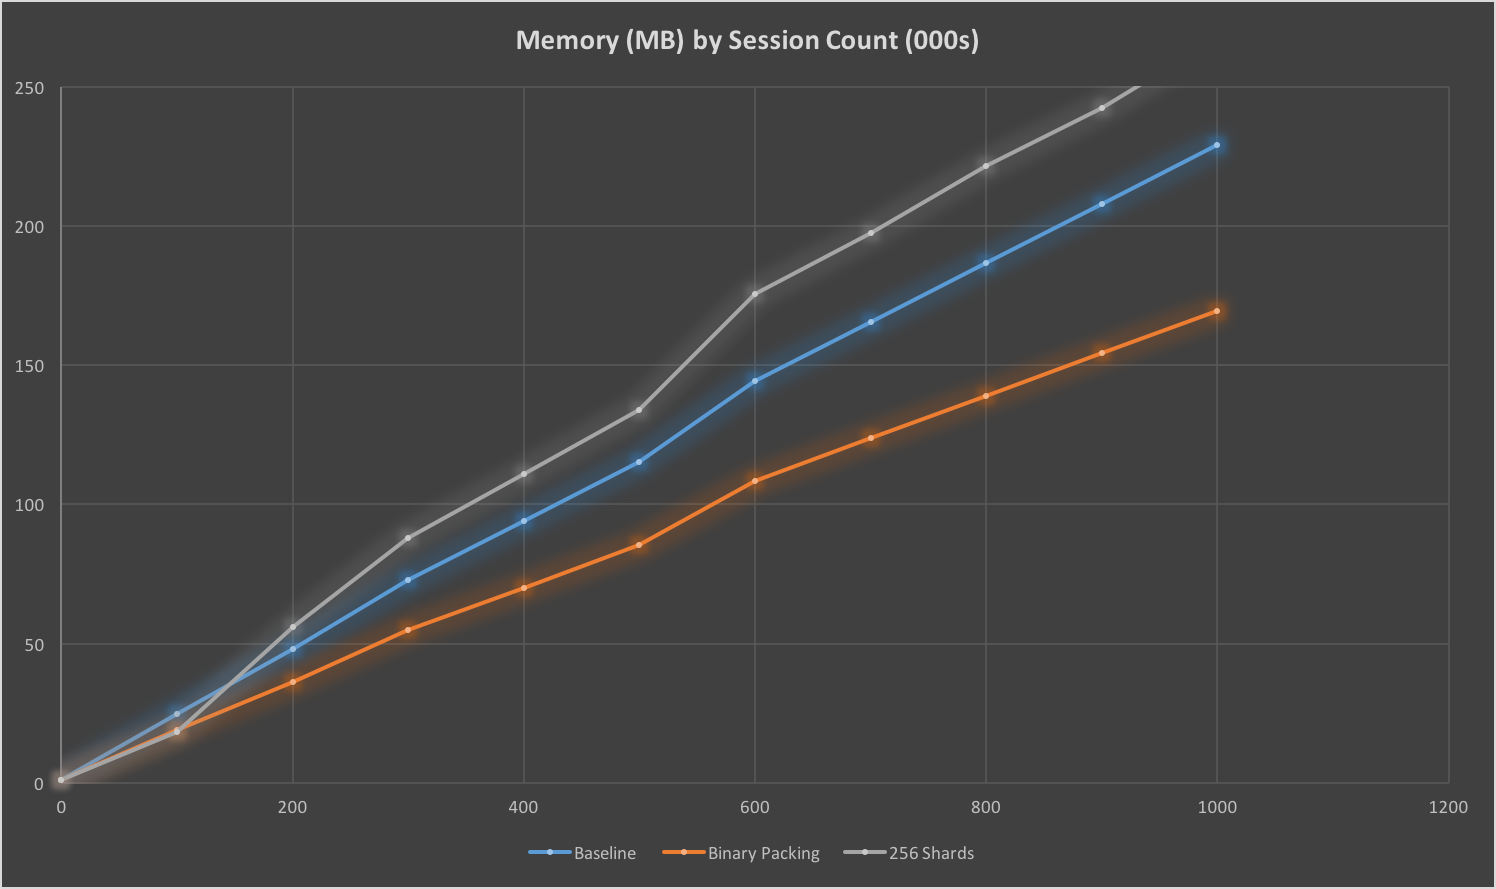
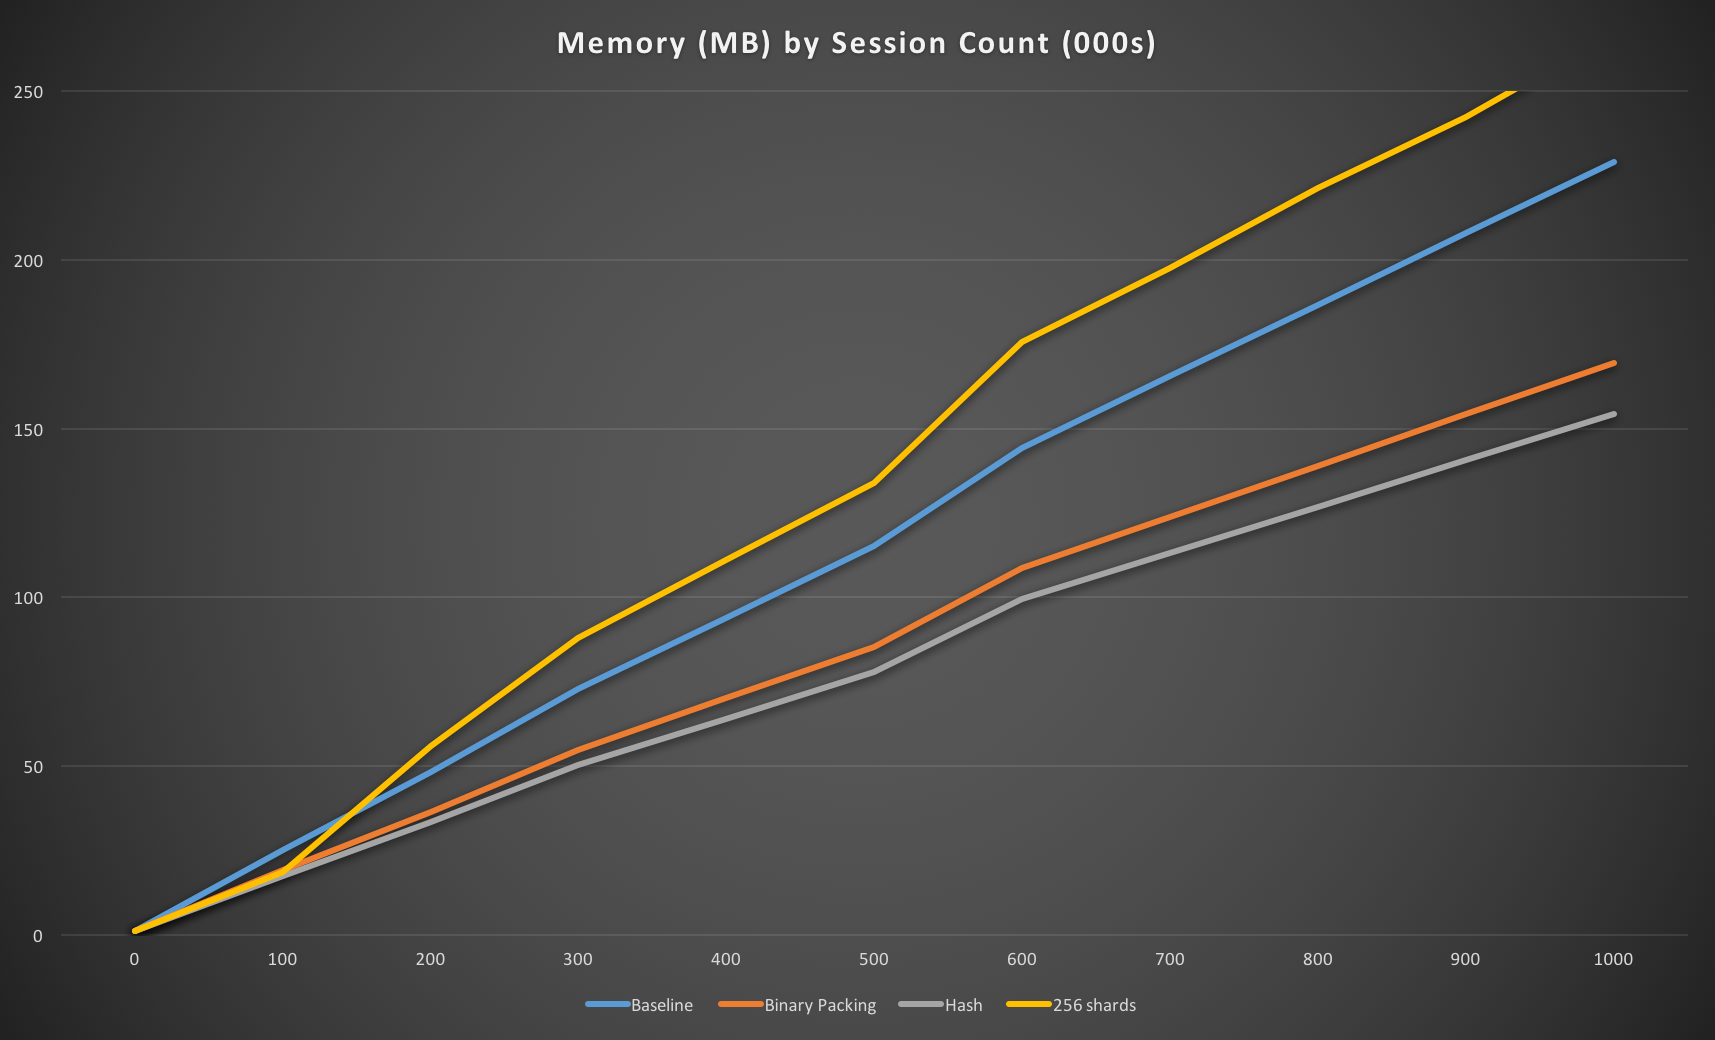
Improved images, added slightly more wording

diff --git a/_posts/2016-09-24-optimising-session-key-storage.md b/_posts/2016-09-24-optimising-session-key-storage.md
@@ -12,12 +12,13 @@ exerpt: >
 
 ## A starting point
 
-First let's create a session class as our starting point which will use a key per session in Redis. The attributes we care about are:
+First let's create a session class as our starting point which will use an expiring key to hold each session in Redis. The attributes we care about are:
 
 - **ID**, a long random token identifying the session
 - **Identity ID**, the identity of the user who owns the session, and
 - **Expires At**, the time at which the session expires
 
+All this code is simplified and adapted from the real version, but it should be sufficient for the purposes of this post.
 
 ```ruby
 class Session
@@ -31,11 +32,11 @@ class Session
 end
 ```
 
-We'll need to add a save method which uses [`setex`](http://redis.io/commands/SETEX) to save the key with an expiry time:
+We'll need to add a save method which uses [`setex`](http://redis.io/commands/SETEX) to save the key with an expiry time, storing the session attributes as a JSON blob.
 
 ```ruby
 def save!
-  ttl = Time.current - expires_at
+  ttl = expires_at - Time.current
   data = { identity_id: identity_id, expires_at: expires_at.to_i }.to_json
   redis.setex(self.class.key(id), ttl.to_i, data)
 end
@@ -45,7 +46,7 @@ def self.key(id)
 end
 ```
 
-We also need the opposite method to find a session we've previously stored using the [`get`](http://redis.io/commands/GET) method to grab all the key data.
+We also need the opposite method to find a session we've previously stored using the [`get`](http://redis.io/commands/GET) method to fetch the key data.
 
 ```ruby
 def self.find(id)
@@ -56,7 +57,7 @@ def self.find(id)
 end
 ```
 
-This key-per-session approach could also be implemented using a Redis hash with [`hmset`](http://redis.io/commands/HMSET)/[`expire`](http://redis.io/commands/EXPIRE) and [`hgetall`](http://redis.io/commands/HGETALL) but it doesn't really make a huge difference to memory or performance.
+Hopefully there's nothing too controversial there. The implementation is short and easy to understand, and the keys and values stored in Redis are human readable which can be useful for troubleshooting. It gives us a good starting point to see what effect various optimisations have on memory usage.
 
 ## Benchmarking
 
@@ -89,9 +90,9 @@ Repeating this process until we've got a million sessions stored which gives us 
 ![Baseline memory usage](/images/posts/optimising-session-key-storage/baseline.png)
 </figure>
 
-The memory usage is linear, as you'd expect, and we're using around 230MB to store every 1M sessions. Given you can scale RedisGreen to 30GB and we use a dedicated store for sessions, it seems we could support 100M sessions without any real problems so perhaps there's no point in trying to optimise this. But let's do it anyway.
+The memory usage is linear, as you'd expect, and we're using around 230MB to store every 1M sessions. Given you can scale RedisGreen to 30GB and we use a dedicated store for sessions, it seems we could support 100M sessions without any real problems so perhaps there's no point in trying to optimise this. But let's do it anyway because otherwise it's going to be a bit of a dull post.
 
-## Modification 1: Efficient binary packing
+## Iteration 1: Binary packing
 
 The first change we can make is to turn the hex session ID back into binary, which almost halves the size of the Redis key:
 
@@ -105,7 +106,7 @@ We can also make the data much smaller by switching to the [MessagePack](http://
 
 ```ruby
 def save!
-  ttl = Time.current - expires_at
+  ttl = expires_at - Time.current
   data = { i: identity_id, x: expires_at.to_i }.to_msgpack
   redis.setex(self.class.key(id), ttl.to_i, data)
 end
@@ -131,7 +132,42 @@ These changes give us a 25% reduction in memory usage, which isn't as much as yo
 
 This is because each key in Redis has (TODO: Write about memory overhead per key)
 
-## Modification 2: Sharded HASH + ZSET
+## Iteration 2: HASH per session
+
+Just to exhaust the possibilities for a key per session, let's measure using a native Redis hash to store the session attributes using [`hmset`](http://redis.io/commands/HMSET) and [`expire`](http://redis.io/commands/EXPIRE).
+
+```ruby
+def save!
+  ttl = expires_at - Time.current
+  redis.multi do |r|
+    r.hmset(self.class.key(id), :i, identity_id, :x, expiry.to_i)
+    r.expire(self.class.key(id), ttl.to_i)
+  end
+end
+```
+
+This needs a bit of a change to the find method to use [`hgetall`](http://redis.io/commands/HGETALL).
+
+```ruby
+def self.find(id)
+  data = redis.hgetall(key(id)).with_indifferent_access
+  raise 'Not Found' if data.empty?
+  attributes[:identity_id] = Integer(attributes.delete(:i))
+  attributes[:expires_at] = Time.at(Integer(attributes.delete(:x))).utc
+  new(attributes)
+end
+```
+
+Making this change shows a small improvement over the msgpack serialized value, so if you're wondering whether to serialize data into keys then the apparent answer is "don't" as Redis can persist it more efficiently than you can.
+
+<figure>
+![Hash memory usage](/images/posts/optimising-session-key-storage/hash.png)
+</figure>
+
+With a couple of changes to convert the key back to binary and using a Redis HASH to store the values in JSON we've improved the memory usage by almost 35% which is definitely worthwhile for a couple of changed lines of code. However, if we want to do better than that we're going to have to change tactics.
+
+
+## Iteration 3: Sharded HASH + ZSET
 
 The [Redis memory optimisation page](http://redis.io/topics/memory-optimization) suggests that by splitting the data into a set of sharded HASH structures we can avoid the per-key memory overhead. We still need to be able to expire the keys though, so we need to store the session ID in a ZSET scored by expiry date. (TODO: Write this section better)
 
@@ -183,7 +219,7 @@ Oh :-(
 ![256 shards memory usage](/images/posts/optimising-session-key-storage/256-shards.png)
 </figure>
 
-## Modification 3: Sharded HASH + ZSET ziplists
+## Iteration 3: Sharded HASH + ZSET ziplists
 
 So it turns out using multiple hashes was really bad as we didn't read the docs closely enough. It started off well enough as some of the hashes were still ziplists, but by 200k sessions the memory usage is around 20% higher than the baseline.
 
@@ -201,7 +237,7 @@ This is 68% better than our baseline:
 
  (~15 entries per hash/zset, etc.)
 
-## Modification 4: Even more shards
+## Iteration 4: Even more shards
 
 Use 16M shards, avg. one key per ziplist
 
@@ -231,6 +267,6 @@ The basic approach of serializing a JSON blob (or, better, a msgpack blob) into 
 
 Choosing too small a shard size is worse than not sharding at all; you use significantly more memory than the basic approach and also increase the complexity of your code.
 
-Getting the shard size right means you can make significant savings in memory usage -- almost 70% reduction from the basic approach and 55% over the approach with binary packing. However, given you could store ~40M sessions in a RedisGreen X-Large instance at $779/month using the basic approach, it's debatable whether the additional complexity is worth it.
+Getting the shard size right means you can make significant savings in memory usage -- almost 70% reduction from the basic approach and 55% over the approach with binary packing. However, given you could store ~45M sessions in a 7GB RedisGreen X-Large instance at $779/month using the approach described in iteration 3, it's debatable whether the additional complexity is worth it.
 
 
